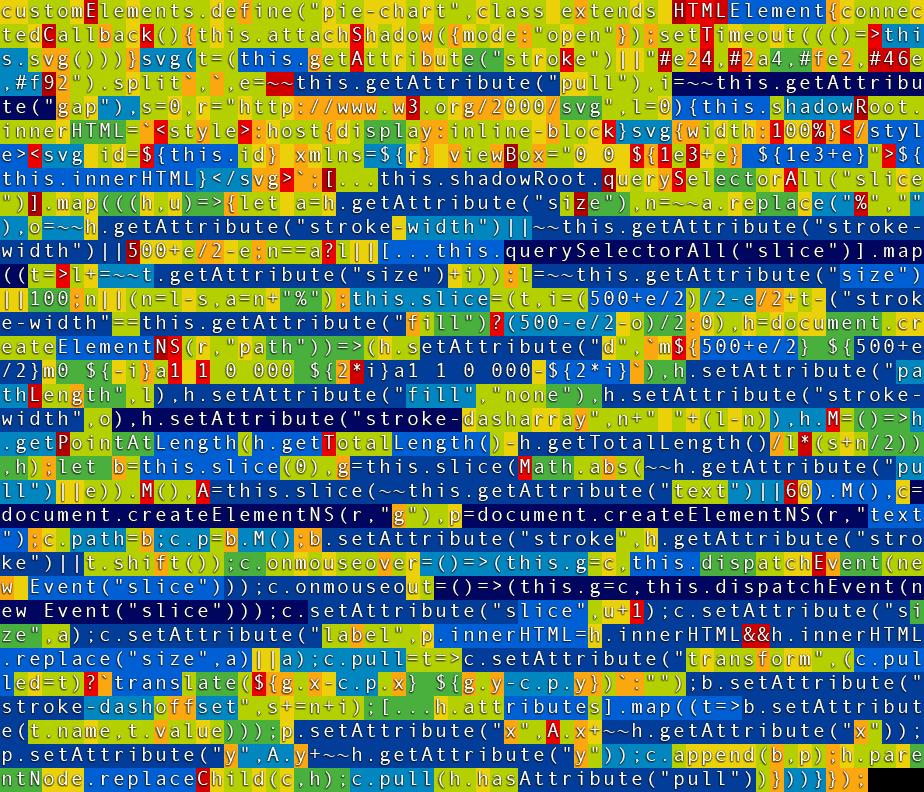
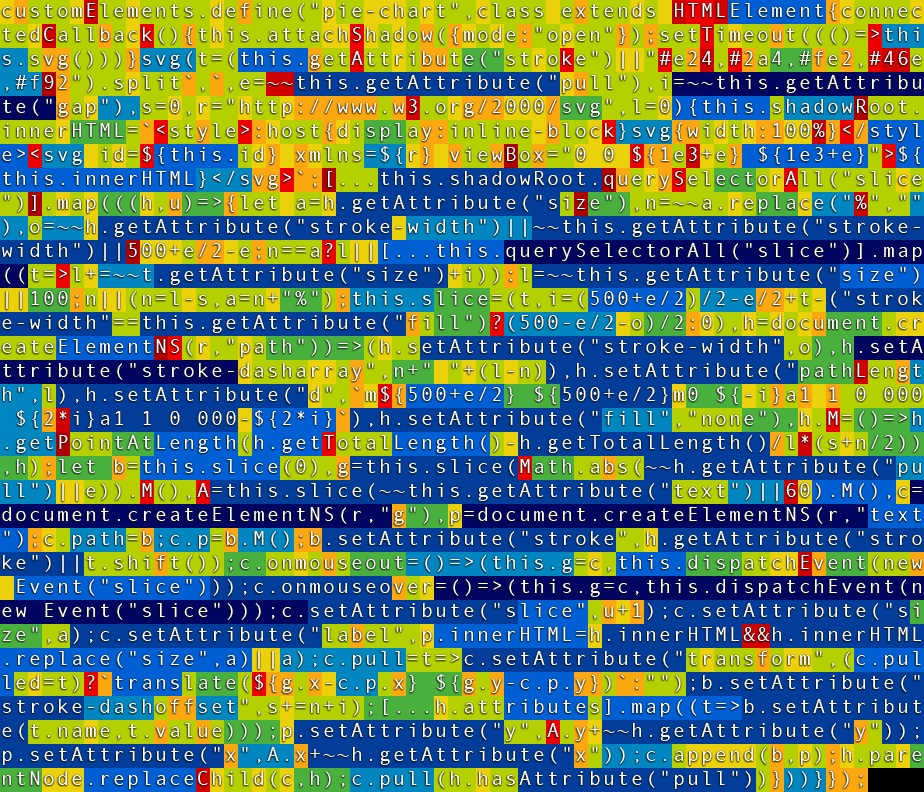
Rearange code String closer together

diff --git a/elements.pie-meister.min.js b/elements.pie-meister.min.js
@@ -1,1 +1,1 @@
-customElements.define("pie-chart",class extends HTMLElement{connectedCallback(){this.attachShadow({mode:"open"});setTimeout((()=>this.svg()))}svg(t=(this.getAttribute("stroke")||"#e24,#2a4,#fe2,#46e,#f92").split`,`,e=~~this.getAttribute("pull"),i=~~this.getAttribute("gap"),s=0,r="http://www.w3.org/2000/svg",l=0){this.shadowRoot.innerHTML=`<style>:host{display:inline-block}svg{width:100%}</style><svg id=${this.id} xmlns=${r} viewBox="0 0 ${1e3+e} ${1e3+e}">${this.innerHTML}</svg>`;[...this.shadowRoot.querySelectorAll("slice")].map(((h,u)=>{let a=h.getAttribute("size"),n=~~a.replace("%",""),o=~~h.getAttribute("stroke-width")||~~this.getAttribute("stroke-width")||500+e/2-e;n==a?l||[...this.querySelectorAll("slice")].map((t=>l+=~~t.getAttribute("size")+i)):l=~~this.getAttribute("size")||100;n||(n=l-s,a=n+"%");this.slice=(t,i=(500+e/2)/2-e/2+t-("stroke-width"==this.getAttribute("fill")?(500-e/2-o)/2:0),h=document.createElementNS(r,"path"))=>(h.setAttribute("d",`m${500+e/2} ${500+e/2}m0 ${-i}a1 1 0 000 ${2*i}a1 1 0 000-${2*i}`),h.setAttribute("pathLength",l),h.setAttribute("fill","none"),h.setAttribute("stroke-width",o),h.setAttribute("stroke-dasharray",n+" "+(l-n)),h.M=()=>h.getPointAtLength(h.getTotalLength()-h.getTotalLength()/l*(s+n/2)),h);let b=this.slice(0),g=this.slice(Math.abs(~~h.getAttribute("pull")||e)).M(),A=this.slice(~~this.getAttribute("text")||60).M(),c=document.createElementNS(r,"g"),p=document.createElementNS(r,"text");c.path=b;c.p=b.M();b.setAttribute("stroke",h.getAttribute("stroke")||t.shift());c.onmouseover=()=>(this.g=c,this.dispatchEvent(new Event("slice")));c.onmouseout=()=>(this.g=c,this.dispatchEvent(new Event("slice")));c.setAttribute("slice",u+1);c.setAttribute("size",a);c.setAttribute("label",p.innerHTML=h.innerHTML&&h.innerHTML.replace("size",a)||a);c.pull=t=>c.setAttribute("transform",(c.pulled=t)?`translate(${g.x-c.p.x} ${g.y-c.p.y})`:"");b.setAttribute("stroke-dashoffset",s+=n+i);[...h.attributes].map((t=>b.setAttribute(t.name,t.value)));p.setAttribute("x",A.x+~~h.getAttribute("x"));p.setAttribute("y",A.y+~~h.getAttribute("y"));c.append(b,p);h.parentNode.replaceChild(c,h);c.pull(h.hasAttribute("pull"))}))}});
+customElements.define("pie-chart",class extends HTMLElement{connectedCallback(){this.attachShadow({mode:"open"});setTimeout((()=>this.svg()))}svg(t=(this.getAttribute("stroke")||"#e24,#2a4,#fe2,#46e,#f92").split`,`,e=~~this.getAttribute("pull"),i=~~this.getAttribute("gap"),s=0,r="http://www.w3.org/2000/svg",l=0){this.shadowRoot.innerHTML=`<style>:host{display:inline-block}svg{width:100%}</style><svg id=${this.id} xmlns=${r} viewBox="0 0 ${1e3+e} ${1e3+e}">${this.innerHTML}</svg>`;[...this.shadowRoot.querySelectorAll("slice")].map(((h,u)=>{let a=h.getAttribute("size"),n=~~a.replace("%",""),o=~~h.getAttribute("stroke-width")||~~this.getAttribute("stroke-width")||500+e/2-e;n==a?l||[...this.querySelectorAll("slice")].map((t=>l+=~~t.getAttribute("size")+i)):l=~~this.getAttribute("size")||100;n||(n=l-s,a=n+"%");this.slice=(t,i=(500+e/2)/2-e/2+t-("stroke-width"==this.getAttribute("fill")?(500-e/2-o)/2:0),h=document.createElementNS(r,"path"))=>(h.setAttribute("stroke-width",o),h.setAttribute("stroke-dasharray",n+" "+(l-n)),h.setAttribute("pathLength",l),h.setAttribute("d",`m${500+e/2} ${500+e/2}m0 ${-i}a1 1 0 000 ${2*i}a1 1 0 000-${2*i}`),h.setAttribute("fill","none"),h.M=()=>h.getPointAtLength(h.getTotalLength()-h.getTotalLength()/l*(s+n/2)),h);let b=this.slice(0),g=this.slice(Math.abs(~~h.getAttribute("pull")||e)).M(),A=this.slice(~~this.getAttribute("text")||60).M(),c=document.createElementNS(r,"g"),p=document.createElementNS(r,"text");c.path=b;c.p=b.M();b.setAttribute("stroke",h.getAttribute("stroke")||t.shift());c.onmouseout=()=>(this.g=c,this.dispatchEvent(new Event("slice")));c.onmouseover=()=>(this.g=c,this.dispatchEvent(new Event("slice")));c.setAttribute("slice",u+1);c.setAttribute("size",a);c.setAttribute("label",p.innerHTML=h.innerHTML&&h.innerHTML.replace("size",a)||a);c.pull=t=>c.setAttribute("transform",(c.pulled=t)?`translate(${g.x-c.p.x} ${g.y-c.p.y})`:"");b.setAttribute("stroke-dashoffset",s+=n+i);[...h.attributes].map((t=>b.setAttribute(t.name,t.value)));p.setAttribute("y",A.y+~~h.getAttribute("y"));p.setAttribute("x",A.x+~~h.getAttribute("x"));c.append(b,p);h.parentNode.replaceChild(c,h);c.pull(h.hasAttribute("pull"))}))}});

diff --git a/elements.pie-meister.js b/elements.pie-meister.js
@@ -78,12 +78,12 @@ customElements.define(
 
           path = document.createElementNS(namespace, "path")
         ) => (
-          path.setAttribute("d", `m${500 + pull / 2} ${500 + pull / 2}m0 ${-R}a1 1 0 000 ${R * 2}a1 1 0 000-${R * 2}`),
-          path.setAttribute("pathLength", pathLength),
-          // No fill because the path IS A FULL circle, we only see parts/slices because of the stroke-dasharray!
-          path.setAttribute("fill", "none"),
           path.setAttribute("stroke-width", strokeWidth), // radius size
           path.setAttribute("stroke-dasharray", sliceSize + " " + (pathLength - sliceSize)),
+          path.setAttribute("pathLength", pathLength),
+          path.setAttribute("d", `m${500 + pull / 2} ${500 + pull / 2}m0 ${-R}a1 1 0 000 ${R * 2}a1 1 0 000-${R * 2}`),
+          // No fill because the path IS A FULL circle, we only see parts/slices because of the stroke-dasharray!
+          path.setAttribute("fill", "none"),
           // stick .M method on path to get a Point position x,y later
           // function returns the middle of the slice arc
           // becuase the method is defined within! each slice scope all variables for that one slice can be used
@@ -120,8 +120,8 @@ customElements.define(
         // determine color
         path.setAttribute("stroke", sliceDefinition.getAttribute("stroke") || colors.shift());
         //! 43 Bytes for Events
-        group.onmouseover = () => ((this.g = group), this.dispatchEvent(new Event("slice")));
         group.onmouseout = () => ((this.g = group), this.dispatchEvent(new Event("slice")));
+        group.onmouseover = () => ((this.g = group), this.dispatchEvent(new Event("slice")));
 
         // set extra properties on slice <g> for easy CSS selecting
         // group.setAttribute("sw", strokeWidth);
@@ -133,8 +133,8 @@ customElements.define(
           (label.innerHTML = // set the svg innerHTML
             /* if sliceBase has a label */ (sliceDefinition.innerHTML &&
               /* then replace % */ sliceDefinition.innerHTML.replace("size", sizeString)) ||
-            /* else use: */ sizeString)
-        );
+              /* else use: */ sizeString)
+              );
 
         // create method .pull(T/F)
         group.pull = (state) =>
@@ -147,8 +147,8 @@ customElements.define(
         // add user defined <slice> attributes to path
         [...sliceDefinition.attributes].map((x) => path.setAttribute(x.name, x.value));
         // ------------------------------------------------------------------ create slice(idx) content
-        label.setAttribute("x", textPoint.x + ~~sliceDefinition.getAttribute("x"));
         label.setAttribute("y", textPoint.y + ~~sliceDefinition.getAttribute("y"));
+        label.setAttribute("x", textPoint.x + ~~sliceDefinition.getAttribute("x"));
 
         // let circle = document.createElementNS(namespace, "g");
         // circle.innerHTML = `<circle cx="${group.p.x}" cy="${group.p.y}" r="20" fill="red"/>`;
